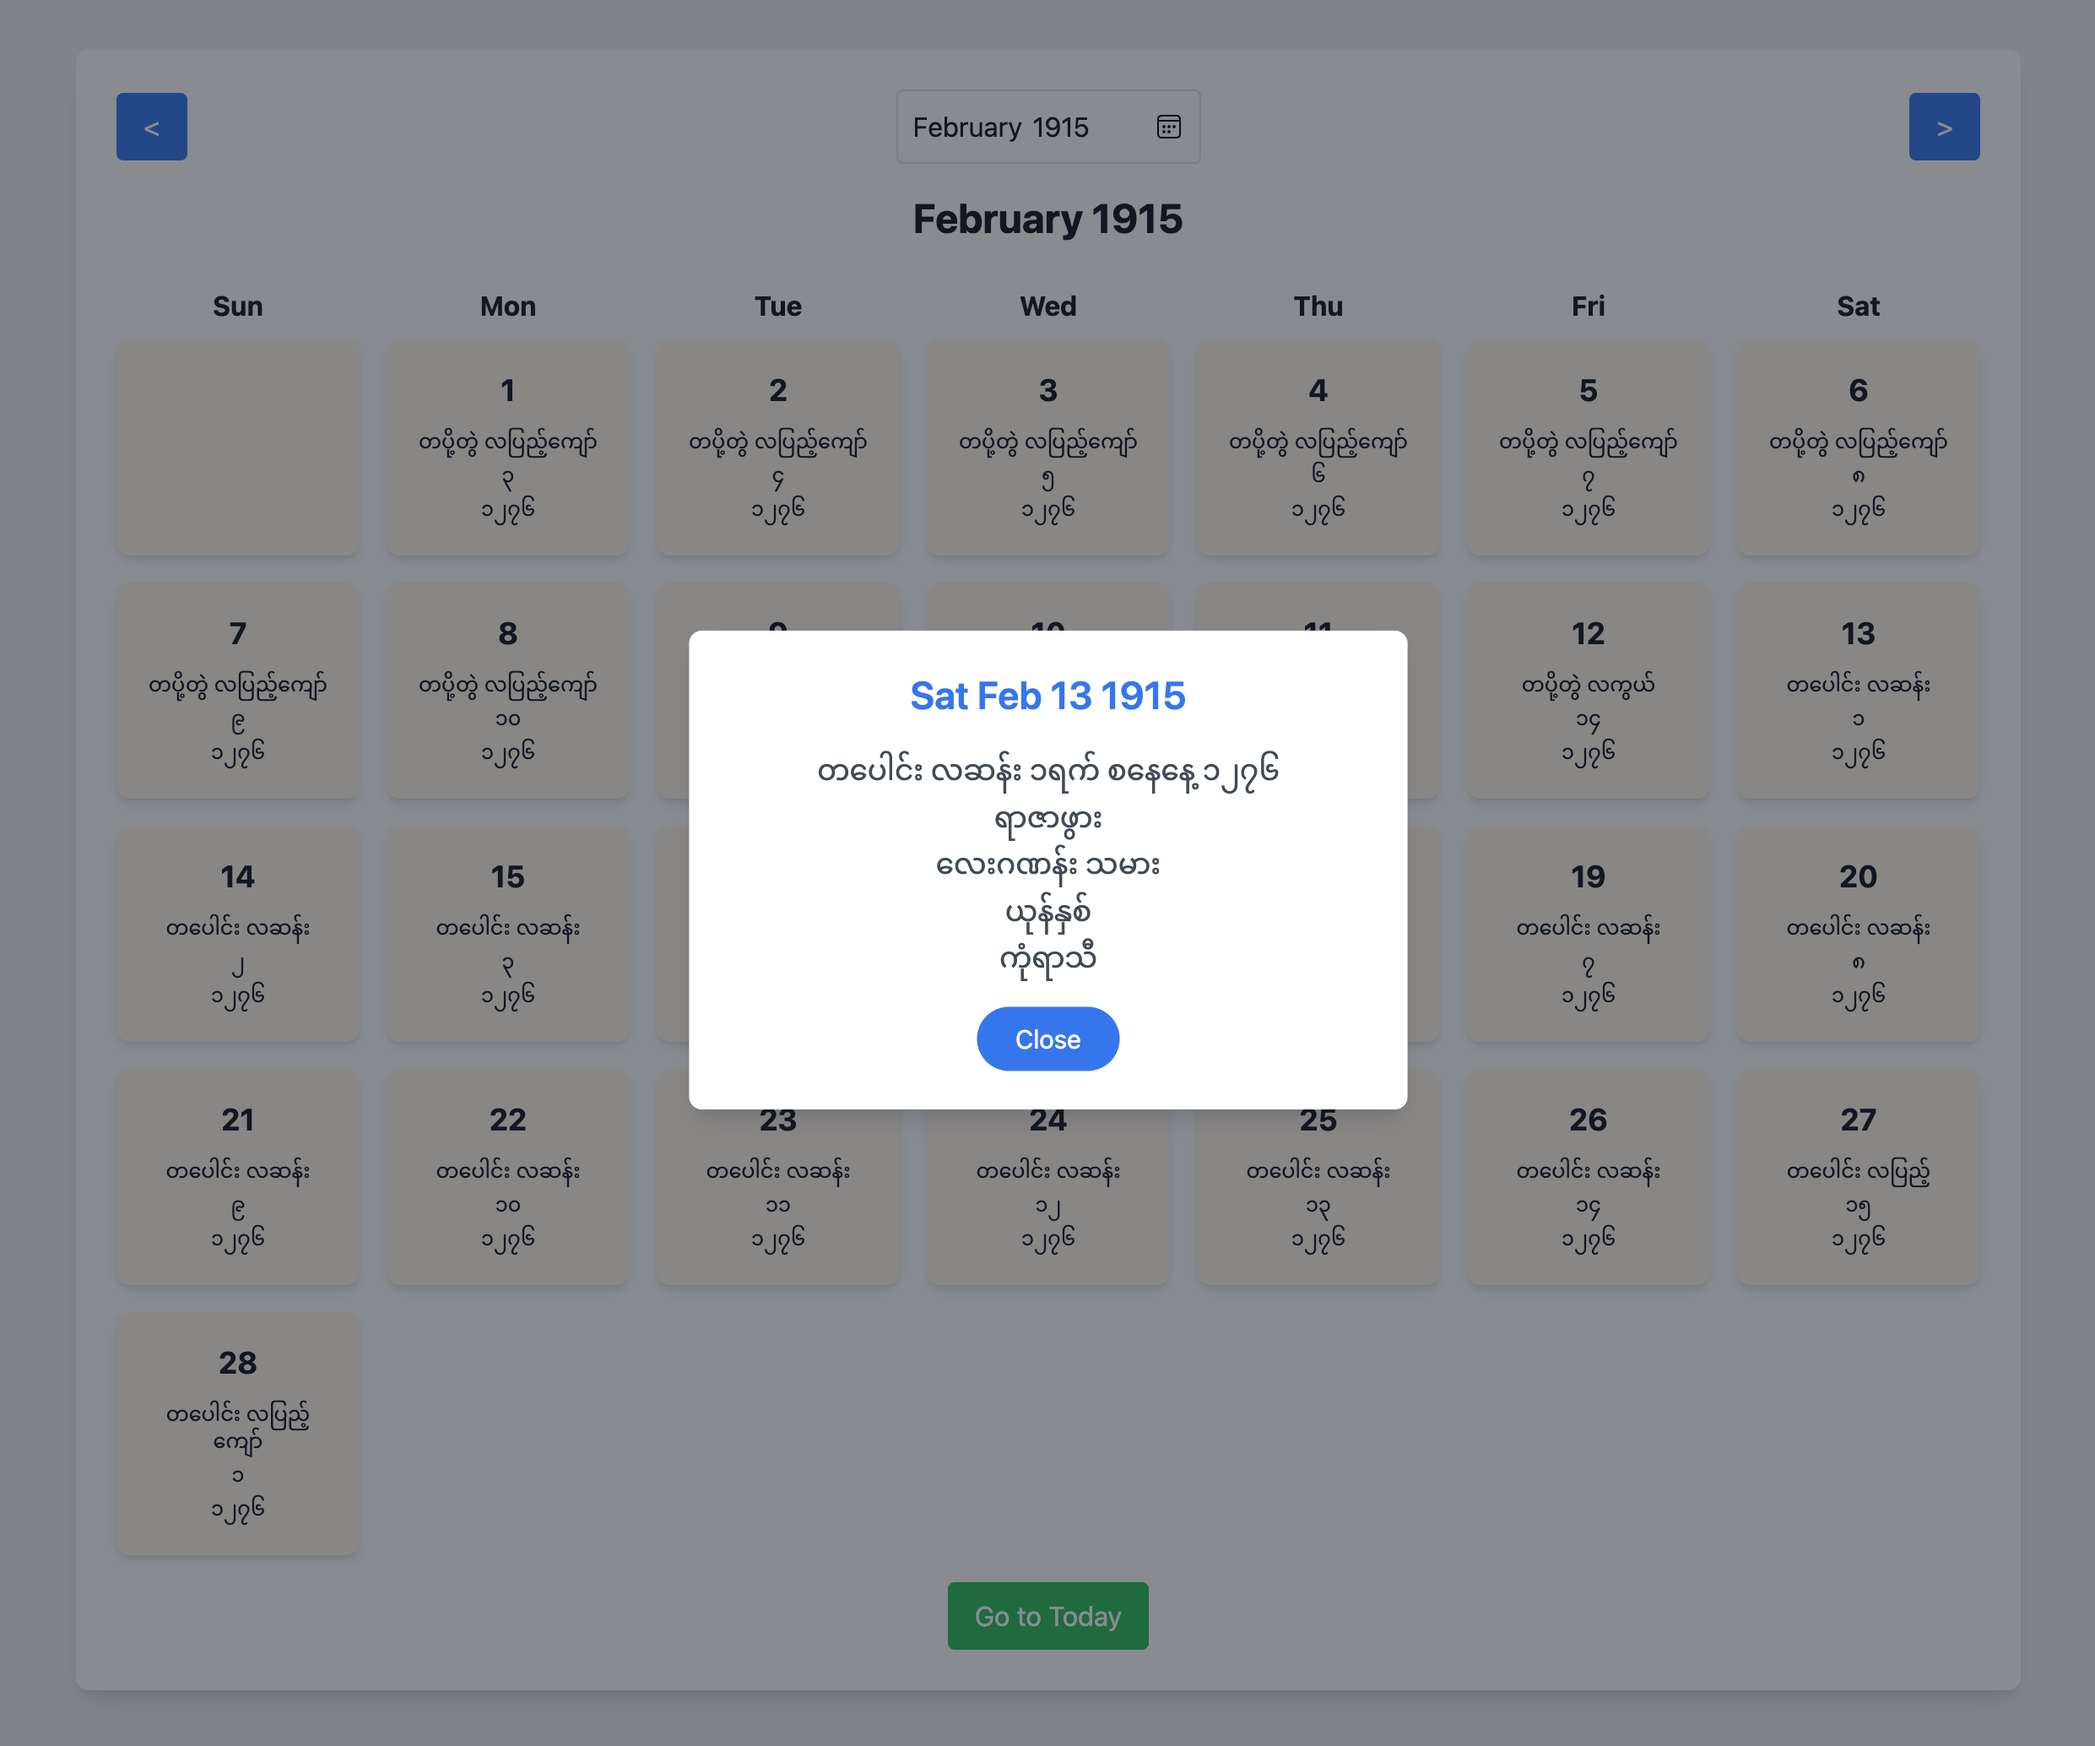
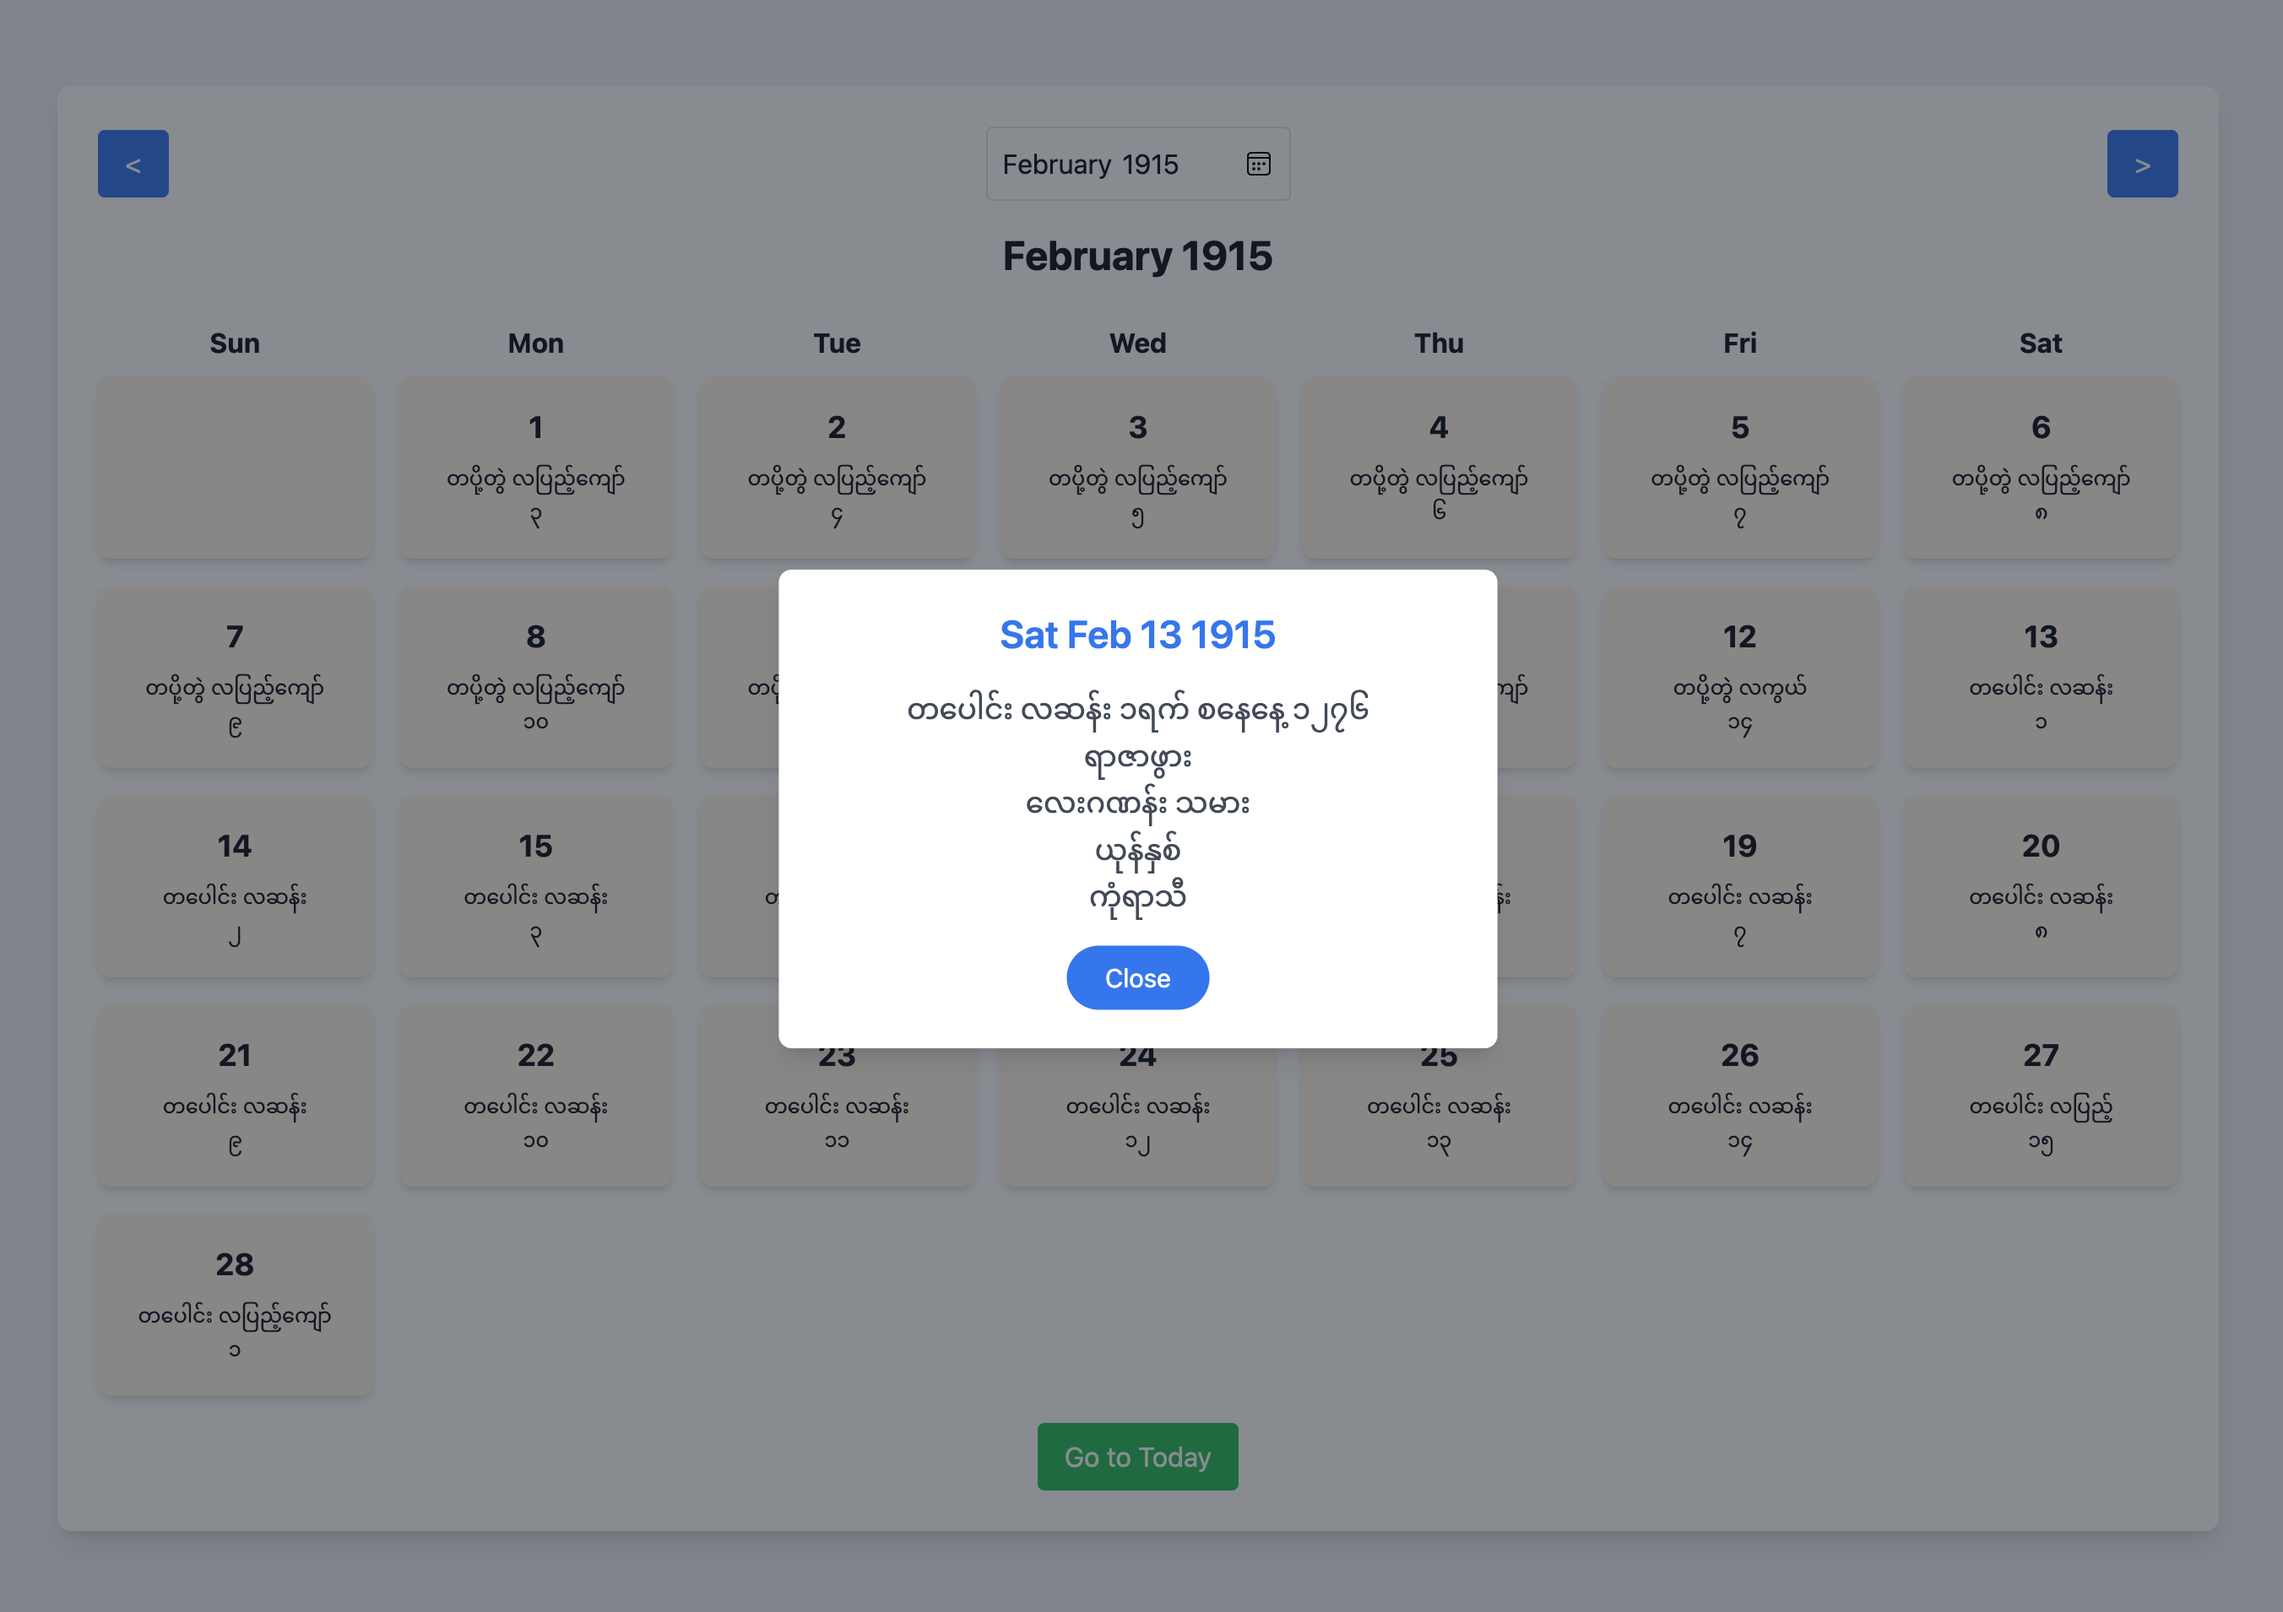
feat: update

diff --git a/simple-mycal.html b/simple-mycal.html
@@ -53,7 +53,7 @@
     </style>
   </head>
   <body class="bg-gray-100 text-gray-900 flex items-center justify-center min-h-screen">
-    <main class="bg-white p-6 rounded-lg shadow-lg w-full max-w-6xl">
+    <main class="bg-white p-6 rounded-lg shadow-lg w-full max-w-7xl">
       <header class="flex flex-row justify-between items-center mb-4">
         <button id="prevMonth" class="bg-blue-500 text-white py-2 px-4 rounded hover:bg-blue-700 transition duration-300 mb-2 sm:mb-0 select-none">&lt;</button>
         <div class="flex justify-center items-center mb-2 sm:mb-0 select-none">
@@ -170,7 +170,6 @@
             <div class="myanmar-date mt-2 leading-loose">
               <p class="text-xs mb-1">${myanmarDate.month.my} ${myanmarDate.day.mp.my}</p>
               <p class="text-xs mb-1">${myanmarDate.day.fd.my}</p>
-              <p class="text-xs mb-1">${myanmarDate.year.my}</p>
             </div>
           `;
 
